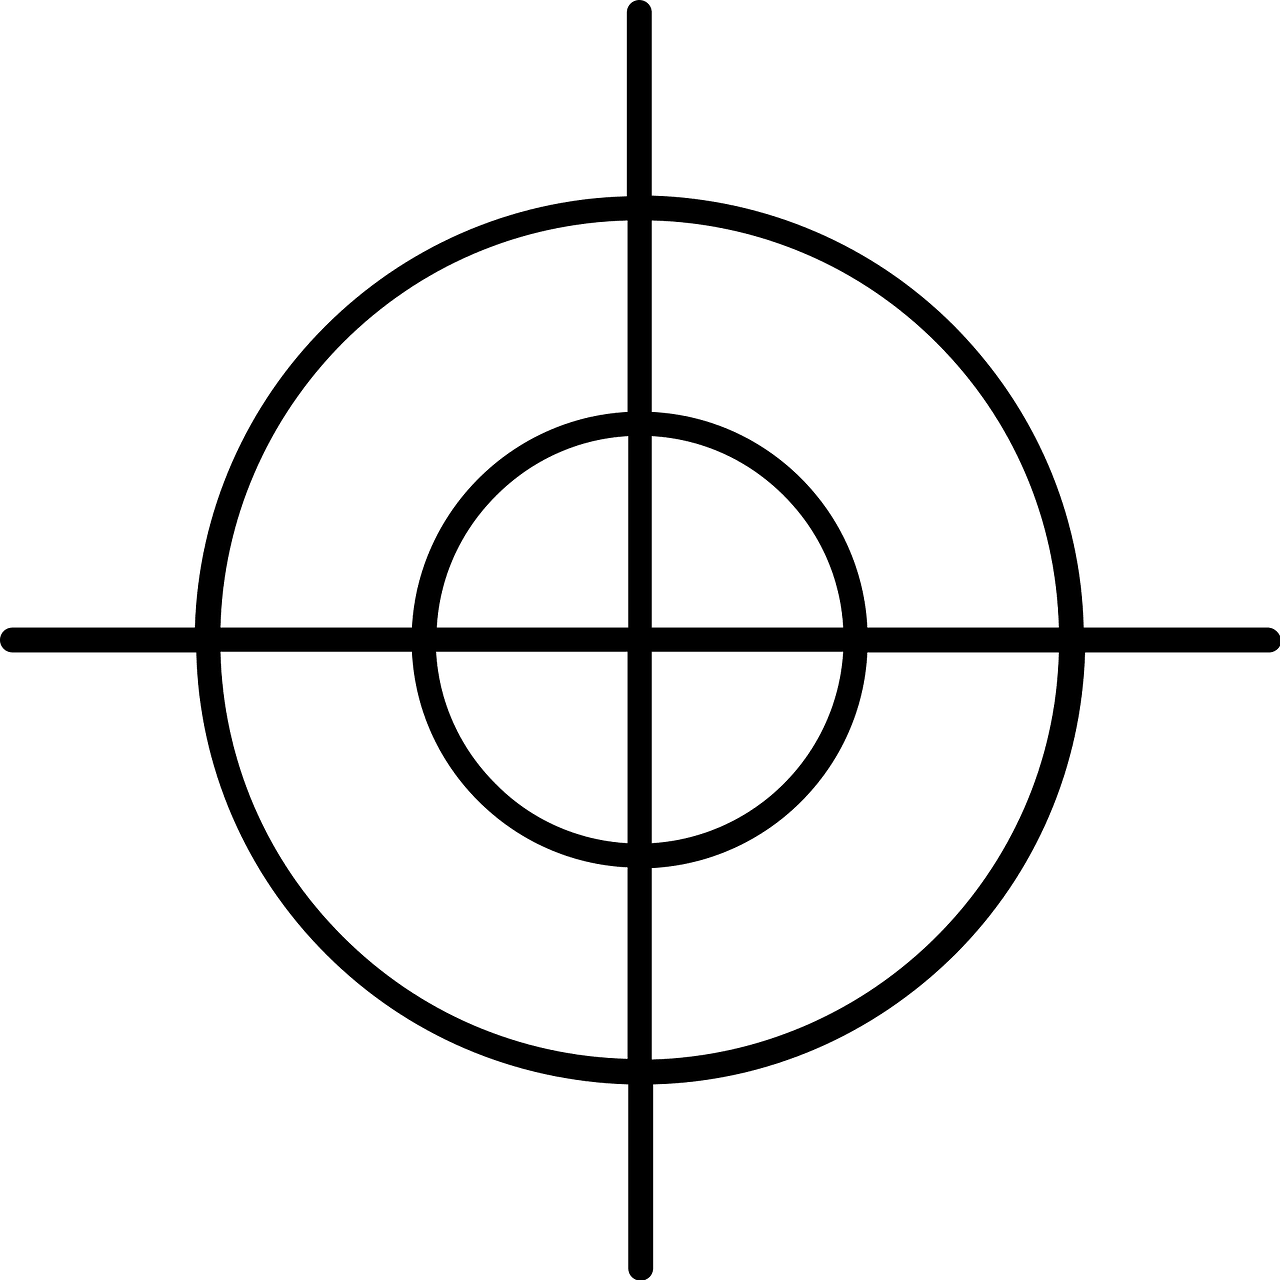
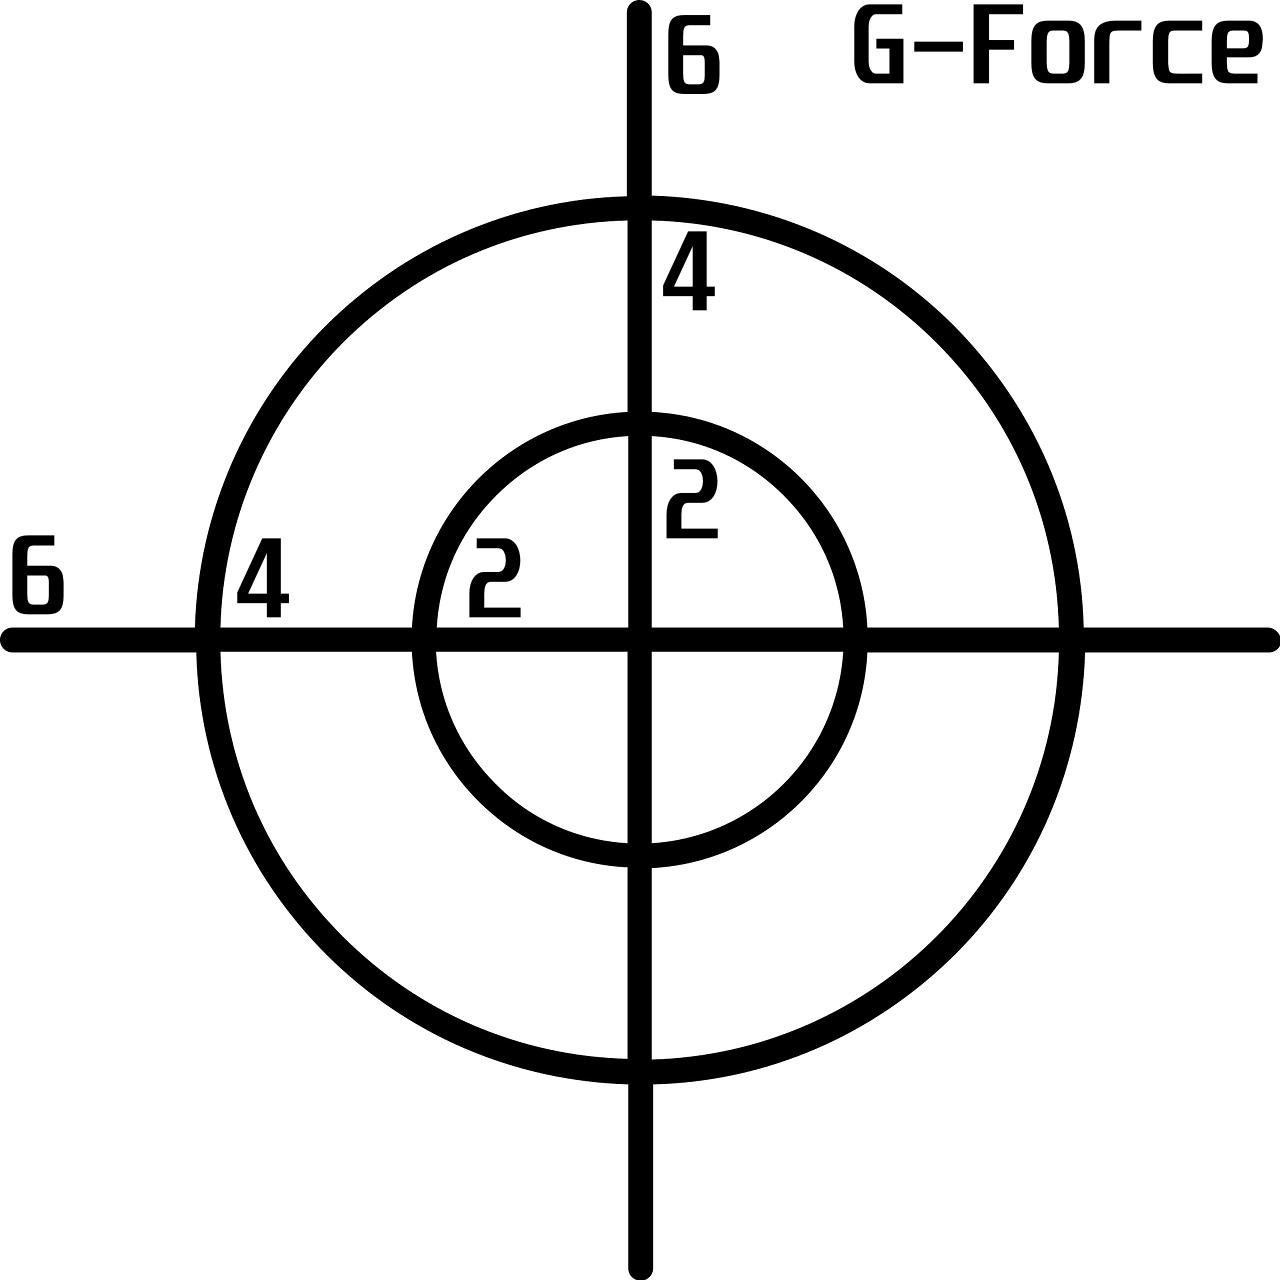
Refined some things added new image for g force

diff --git a/track_fusion_ui/lib/src/screens/race_mode.dart b/track_fusion_ui/lib/src/screens/race_mode.dart
@@ -1,9 +1,5 @@
 import 'package:flutter/material.dart';
-import 'package:http/http.dart';
-import 'package:track_fusion_ui/globals.dart' as globals;
-import '../widgets/custom_app_bar.dart';
 import 'package:flutter/services.dart';
-import 'package:syncfusion_flutter_gauges/gauges.dart';
 import '../widgets/g_force.dart';
 import 'package:geolocator/geolocator.dart';
 import 'package:google_maps_flutter/google_maps_flutter.dart';
@@ -41,9 +37,10 @@ class _RaceState extends State<RaceMode> {
       DeviceOrientation.landscapeLeft,
     ]);
 
-    final LocationSettings locationSettings = LocationSettings(
+    const LocationSettings locationSettings = LocationSettings(
       accuracy: LocationAccuracy.high,
-      // distanceFilter: 100,
+      distanceFilter: 0,
+      timeLimit: Duration(seconds: 10),
     );
 
 
@@ -97,7 +94,12 @@ class _RaceState extends State<RaceMode> {
               ),
             ),
           ),
-          ScalableSpedo(),
+            ScalableSpedo(
+            defaultPosition: Offset(
+              MediaQuery.sizeOf(context).width * 1 / 20,
+              MediaQuery.sizeOf(context).height * 1 / 20,
+            ),
+            ),
           //Default Position sets around the top right corner of the screen no matter the screen size
           GForce(
               width: 150,
@@ -107,8 +109,8 @@ class _RaceState extends State<RaceMode> {
           ScalableMap(
             width: 150,
             height: 150,
-            defaultPosition: Offset(MediaQuery.sizeOf(context).width * 1 / 10,
-                MediaQuery.sizeOf(context).height * 1 / 10),
+            defaultPosition: Offset(MediaQuery.sizeOf(context).width * 5 / 10,
+                MediaQuery.sizeOf(context).height * 5 / 10),
             lat: (selectedTrack != null) ? selectedTrack!.lat : 0.0,
             long: (selectedTrack != null) ? selectedTrack!.long : 0.0,
             controller: controller,

diff --git a/track_fusion_ui/lib/src/widgets/scalable_spedo.dart b/track_fusion_ui/lib/src/widgets/scalable_spedo.dart
@@ -5,6 +5,10 @@ import 'package:track_fusion_ui/globals.dart' as globals;
 
 class ScalableSpedo extends StatefulWidget {
 
+  final Offset defaultPosition;
+
+  const ScalableSpedo({super.key, required this.defaultPosition});
+
   @override
   State<StatefulWidget> createState() {
     return _ScalableSpedoState();
@@ -12,7 +16,7 @@ class ScalableSpedo extends StatefulWidget {
 }
 
 class _ScalableSpedoState extends State<ScalableSpedo> {
-  double _scale = 1.0;
+  double _scale = 0.5;
   double _previousScale = 1.0;
   Offset _position = const Offset(100, 100);
   Offset _previousPosition = const Offset(100, 100);
@@ -21,6 +25,8 @@ class _ScalableSpedoState extends State<ScalableSpedo> {
   @override
   void initState() {
     super.initState();
+
+    _position = widget.defaultPosition;
 
     const LocationSettings locationSettings = LocationSettings(
       accuracy: LocationAccuracy.high,

diff --git a/ObsidianNotes/Capstone Time Tracking.md b/ObsidianNotes/Capstone Time Tracking.md
@@ -60,4 +60,5 @@ Week 3
 | Wednesday 10/16 | 7:00-8:30   | 90             | Worked on the maps widget and getting location of user                                                |
 | Thursday 10/17  | 9:00-11:00  | 120            | Worked on refining the race mode page, user can scale the widgets to their liking.                    |
 | Thursday 10/17  | 2:00-4:00   | 120            | Further refined scaling of widgets including the map, started on a list of racetracks to select from. |
-| Friday          | 11:00-11:30 | 30             | Worked on track presets actually moving the map.                                                      |
+| Friday 10/18    | 11:00-11:30 | 30             | Worked on track presets actually moving the map.                                                      |
+| Saturday 10/19  | 2:45-4:15   | 90             | Worked on refining the race mode feature.                                                             |
